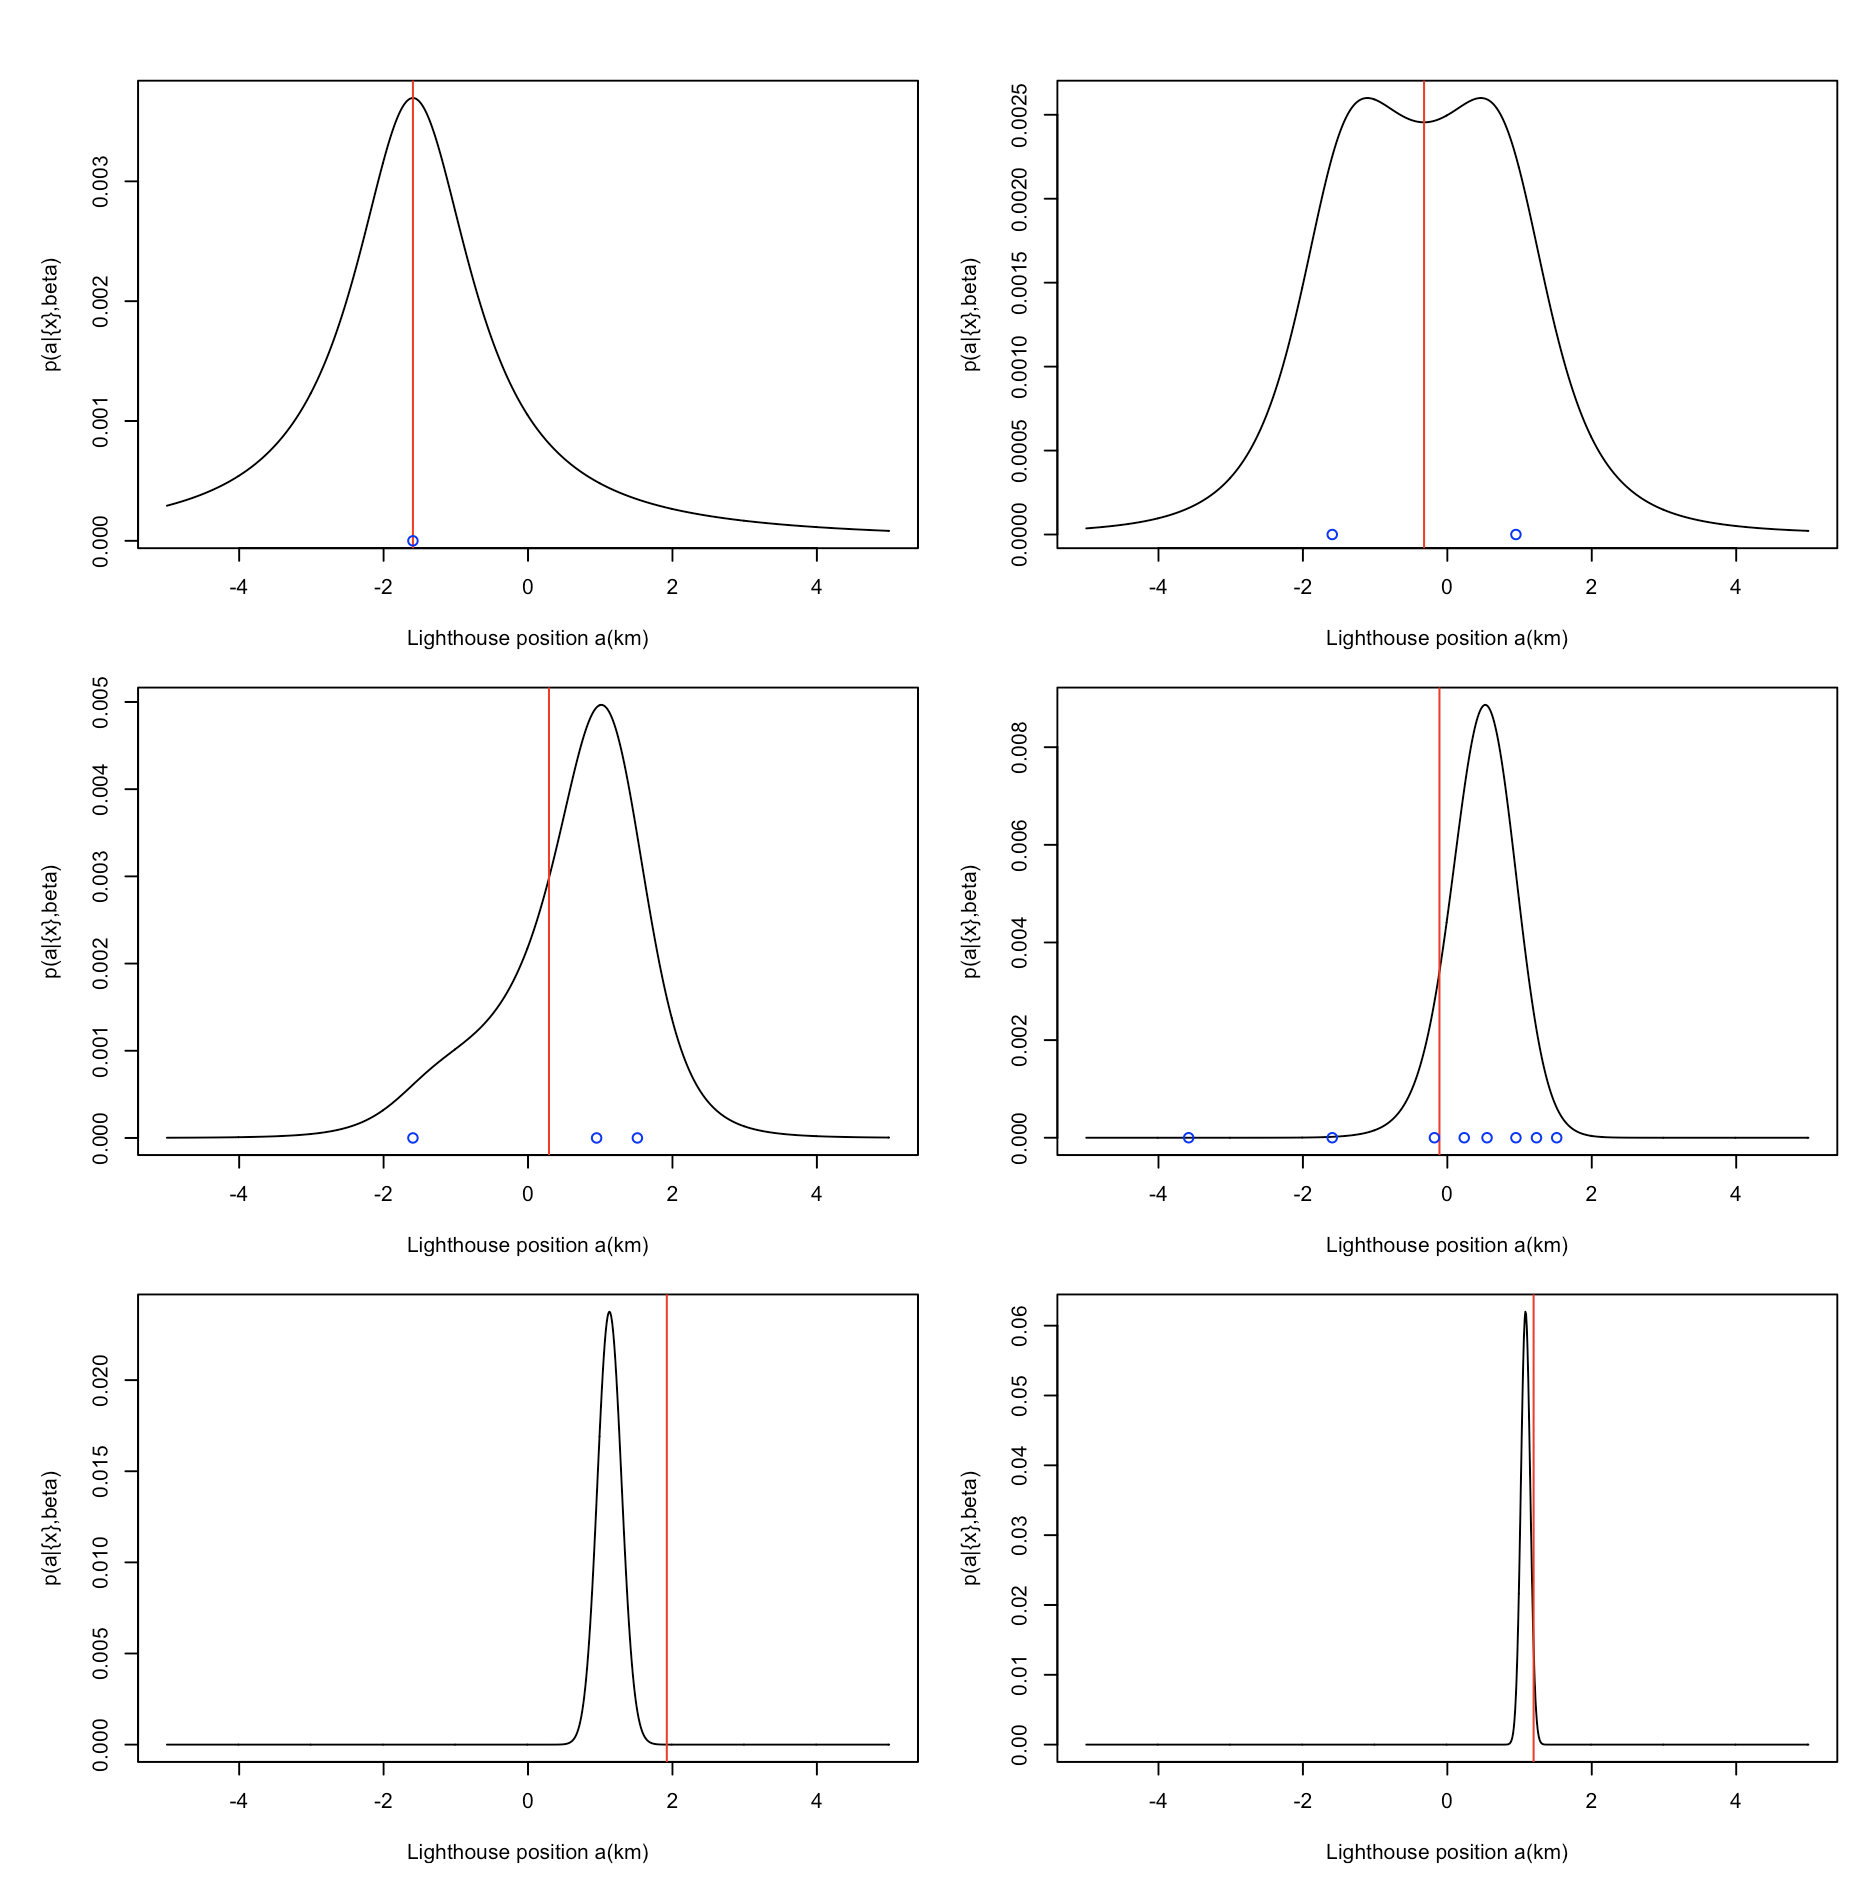
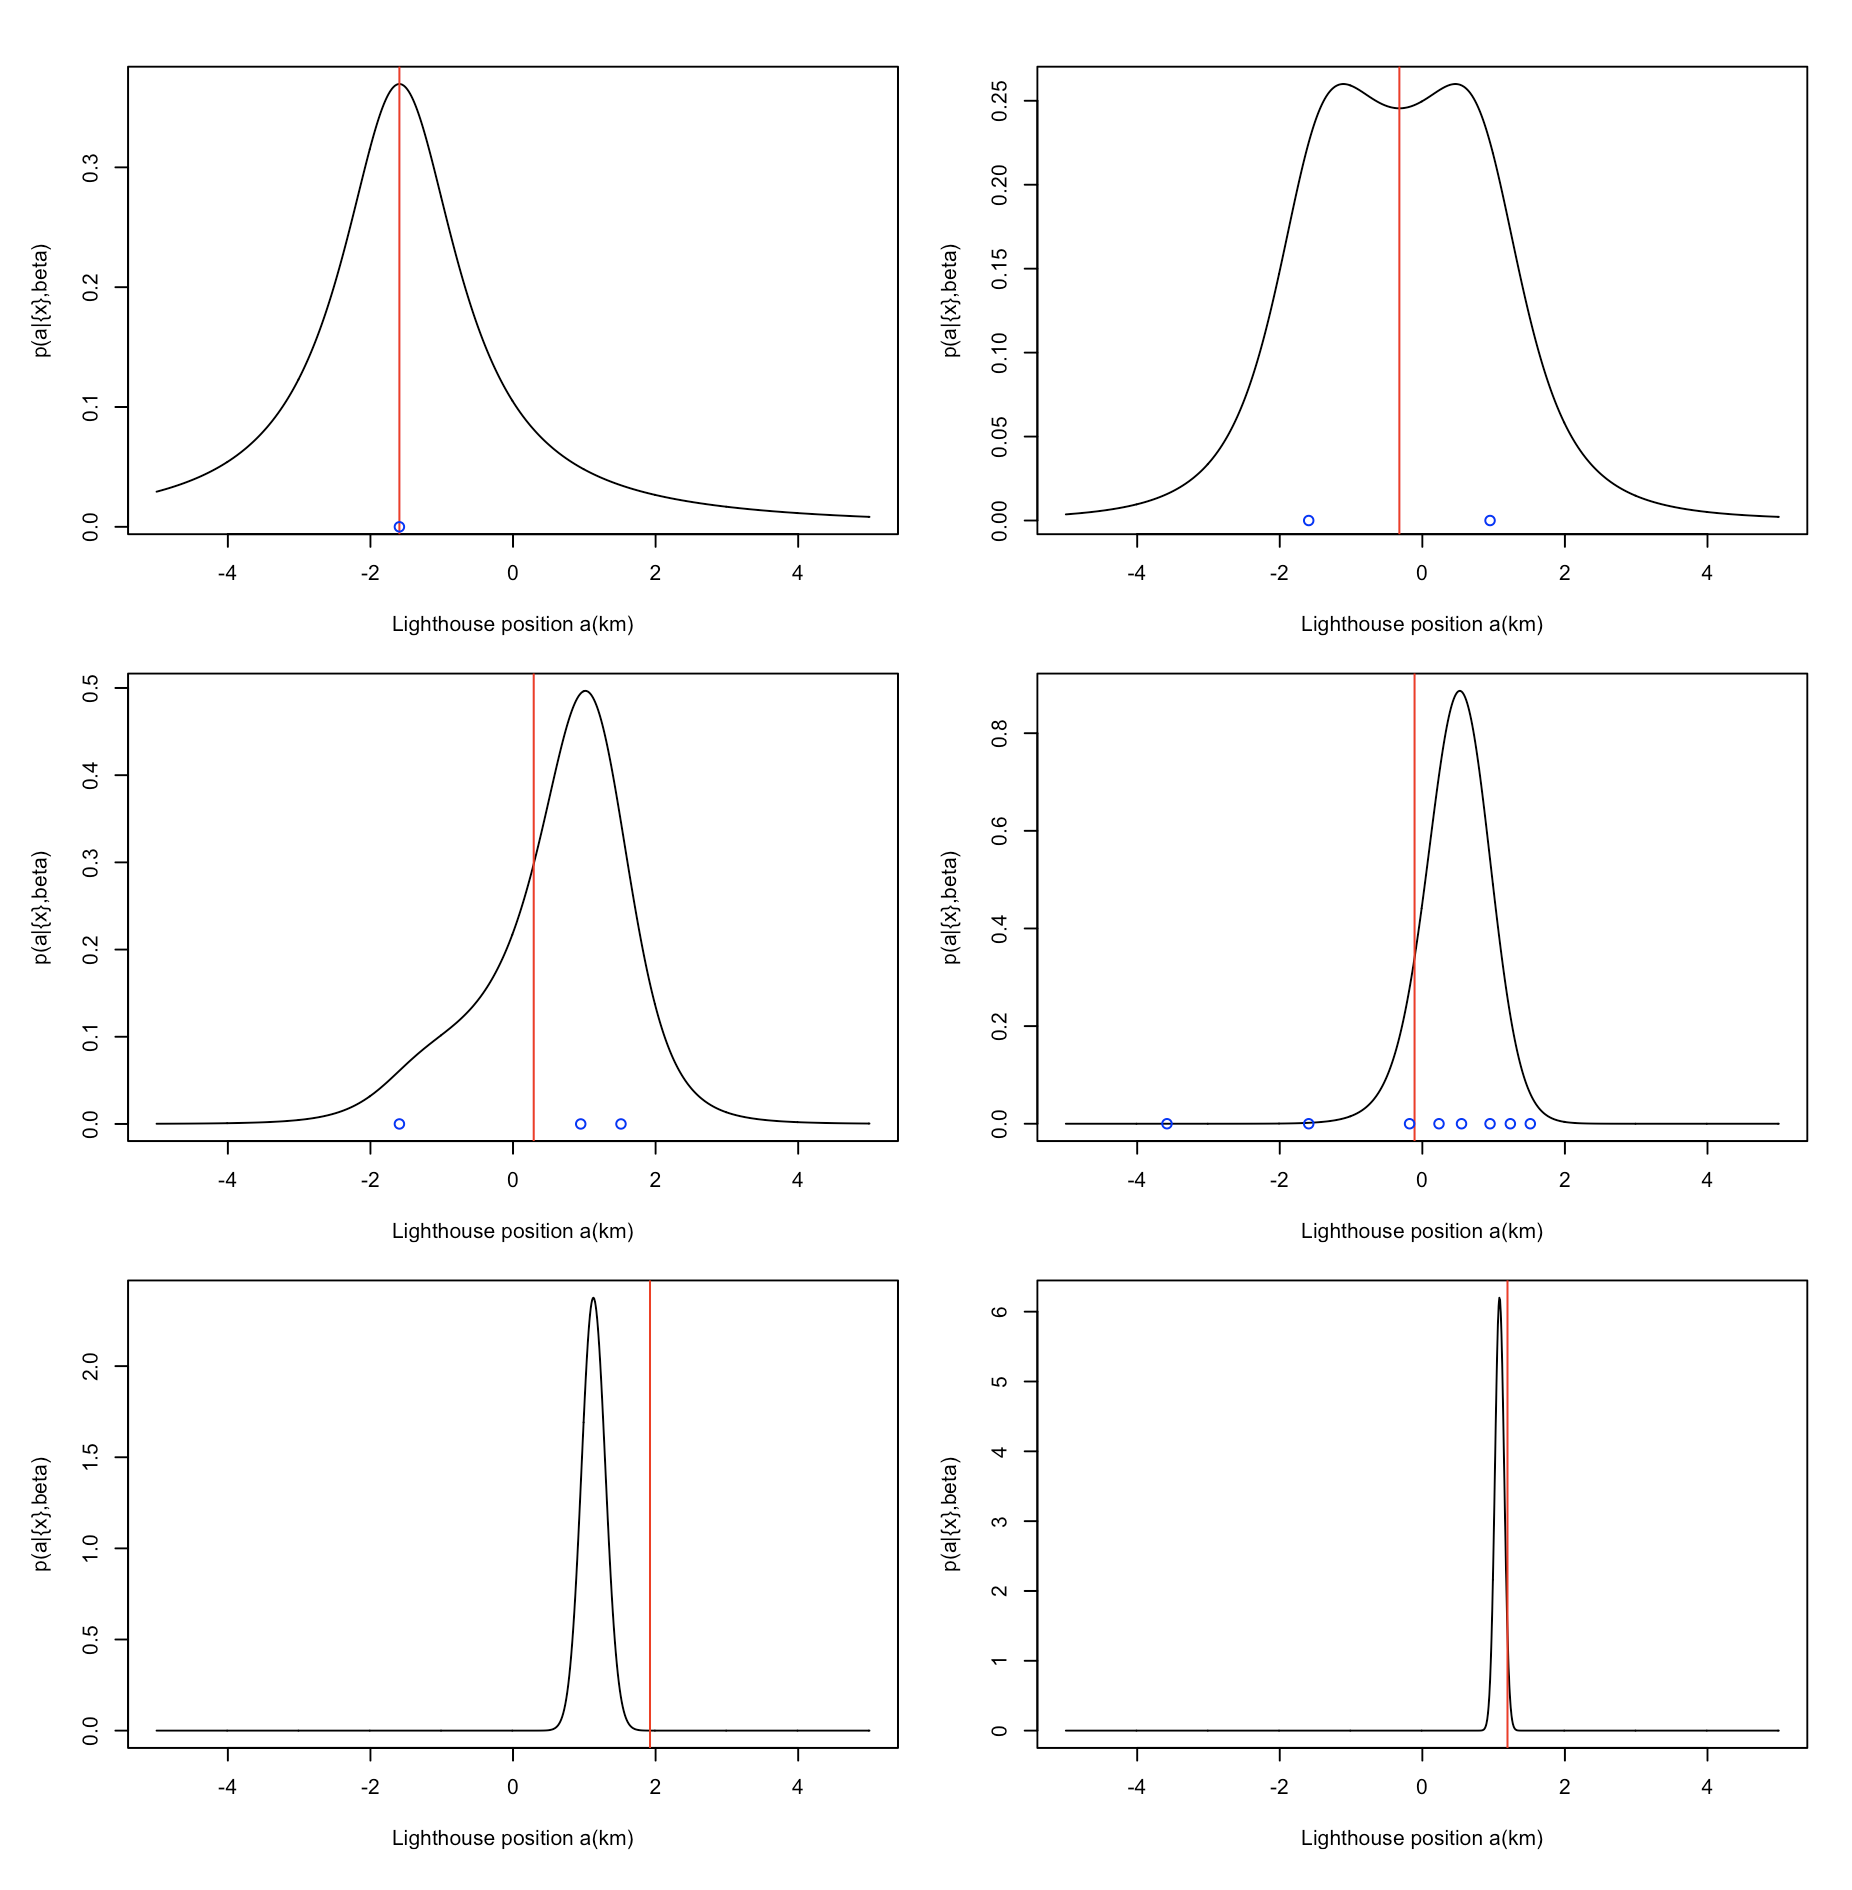
Site updated: 2017-02-21 11:16:20

diff --git a/2017/02/13/The-Lighthouse-Problem/index.html b/2017/02/13/The-Lighthouse-Problem/index.html
@@ -96,7 +96,7 @@
 <meta property="og:image" content="http://yoursite.com/2017/02/13/The-Lighthouse-Problem/illustration_lighthouse.png">
 <meta property="og:image" content="http://yoursite.com/2017/02/13/The-Lighthouse-Problem/cauchy_distribution.png">
 <meta property="og:image" content="http://yoursite.com/2017/02/13/The-Lighthouse-Problem/posterior.png">
-<meta property="og:updated_time" content="2017-02-14T19:31:52.000Z">
+<meta property="og:updated_time" content="2017-02-21T17:15:56.000Z">
 <meta name="twitter:card" content="summary">
 <meta name="twitter:title" content="The Lighthouse Problem | and why sample mean is not a good estimator">
 <meta name="twitter:description" content="This example comes from ‘Data analysis: a Bayesian tutorial’[1 P29]. It was originally studied by Gull (1988) who found this problem on a problems sheet for first-year undergraduates at Cambridge:‘A l">
@@ -402,7 +402,7 @@
 <p>The best estimate of the position $\alpha_0$ is given by the maximum of the posterior pdf. Differentiating this log-posterior pdf once, with respect to $\alpha$, we obtain the condition:</p>
 <p>$$\frac{dL}{d\alpha} \bigg|_{\alpha_0} = 2\sum_{k=1}^N \frac{x_k-\alpha_0}{\beta^2+(x_k-\alpha)^2} = 0$$</p>
 <p>Unfortunately, it is difficult to rearrange this equation so that αo is expressed in terms of ${ x_k }$ and $\beta$. Although an analytical solution may confound us, there is nothing to stop us tackling the problem numerically. The most straightforward method is to use brute force and ignorance: simply evaluate $L$, the log posterior pdf, for a whole series of different possible values of $\alpha$ the number giving rise to the largest $L$ will be the best estimate. If we plot the exponential of $L$, $exp(L)$, on the vertical axis, as a function of $\alpha$, on the horizontal axis, then we obtain the posterior pdf for the position of the lighthouse. Not only does this give us a complete visual representation of our inference, it has the advantage that we don’t need to worry whether the posterior pdf is asymmetric or multimodal.</p>
-<figure class="highlight r"><table><tr><td class="gutter"><pre><div class="line">1</div><div class="line">2</div><div class="line">3</div><div class="line">4</div><div class="line">5</div><div class="line">6</div><div class="line">7</div><div class="line">8</div><div class="line">9</div><div class="line">10</div><div class="line">11</div><div class="line">12</div><div class="line">13</div><div class="line">14</div><div class="line">15</div><div class="line">16</div><div class="line">17</div><div class="line">18</div><div class="line">19</div><div class="line">20</div><div class="line">21</div><div class="line">22</div><div class="line">23</div><div class="line">24</div><div class="line">25</div><div class="line">26</div><div class="line">27</div></pre></td><td class="code"><pre><div class="line">set.seed(<span class="number">19</span>)</div><div class="line">n = <span class="number">1000</span>; beta = <span class="number">1</span>; alpha = <span class="number">1</span>;</div><div class="line">theta = runif(n, -pi/<span class="number">2</span>, pi/<span class="number">2</span>)</div><div class="line">x = beta*tan(theta) + alpha</div><div class="line"></div><div class="line">drawPosterior = <span class="keyword">function</span>(number, showPoints)&#123;</div><div class="line">    x = x[<span class="number">1</span>:number]</div><div class="line">    seqA = seq(-<span class="number">5</span>, <span class="number">5</span>, <span class="number">0.01</span>)</div><div class="line">    la = c()</div><div class="line">    <span class="keyword">for</span>(a <span class="keyword">in</span> seqA)&#123;</div><div class="line">        la = c(la, -sum(log(  beta^<span class="number">2</span>+(x-a)^<span class="number">2</span>)  ))</div><div class="line">    &#125;</div><div class="line">    la = exp(la + abs(mean(la)))  <span class="comment"># normalize</span></div><div class="line">    la = la/sum(la)</div><div class="line">    plot(x=seqA, y=la, type=<span class="string">"l"</span>, xlab=<span class="string">"Lighthouse position a(km)"</span>, ylab=<span class="string">"p(a|&#123;x&#125;,beta)"</span>)</div><div class="line">    abline(v=mean(x), col=<span class="string">"red"</span>)</div><div class="line">    <span class="keyword">if</span>(showPoints)&#123; points(x, rep(<span class="number">0</span>, length(x)), col=<span class="string">"blue"</span>)&#125;</div><div class="line">&#125;</div><div class="line"></div><div class="line">par(mar=c(<span class="number">4</span>, <span class="number">4</span>, <span class="number">1.5</span>, <span class="number">1.5</span>), oma = c(<span class="number">2</span>, <span class="number">2</span>, <span class="number">2</span>, <span class="number">2</span>))</div><div class="line">layout(matrix(<span class="number">1</span>:<span class="number">6</span>, ncol=<span class="number">2</span>, byrow=<span class="literal">TRUE</span>))</div><div class="line">drawPosterior(<span class="number">1</span>, <span class="literal">TRUE</span>)</div><div class="line">drawPosterior(<span class="number">2</span>, <span class="literal">TRUE</span>)</div><div class="line">drawPosterior(<span class="number">3</span>, <span class="literal">TRUE</span>)</div><div class="line">drawPosterior(<span class="number">8</span>, <span class="literal">TRUE</span>)</div><div class="line">drawPosterior(<span class="number">64</span>, <span class="literal">FALSE</span>)</div><div class="line">drawPosterior(<span class="number">512</span>, <span class="literal">FALSE</span>)</div></pre></td></tr></table></figure>
+<figure class="highlight r"><table><tr><td class="gutter"><pre><div class="line">1</div><div class="line">2</div><div class="line">3</div><div class="line">4</div><div class="line">5</div><div class="line">6</div><div class="line">7</div><div class="line">8</div><div class="line">9</div><div class="line">10</div><div class="line">11</div><div class="line">12</div><div class="line">13</div><div class="line">14</div><div class="line">15</div><div class="line">16</div><div class="line">17</div><div class="line">18</div><div class="line">19</div><div class="line">20</div><div class="line">21</div><div class="line">22</div><div class="line">23</div><div class="line">24</div><div class="line">25</div><div class="line">26</div><div class="line">27</div></pre></td><td class="code"><pre><div class="line">set.seed(<span class="number">19</span>)</div><div class="line">n = <span class="number">1000</span>; beta = <span class="number">1</span>; alpha = <span class="number">1</span>;</div><div class="line">theta = runif(n, -pi/<span class="number">2</span>, pi/<span class="number">2</span>)</div><div class="line">x = beta*tan(theta) + alpha</div><div class="line"></div><div class="line">drawPosterior = <span class="keyword">function</span>(number, showPoints)&#123;</div><div class="line">    x = x[<span class="number">1</span>:number]</div><div class="line">    seqA = seq(-<span class="number">5</span>, <span class="number">5</span>, <span class="number">0.01</span>)</div><div class="line">    la = c()</div><div class="line">    <span class="keyword">for</span>(a <span class="keyword">in</span> seqA)&#123;</div><div class="line">        la = c(la, -sum(log(  beta^<span class="number">2</span>+(x-a)^<span class="number">2</span>)  ))</div><div class="line">    &#125;</div><div class="line">    la = exp(la + abs(mean(la)))  <span class="comment"># normalize</span></div><div class="line">    la = la/(sum(la)*<span class="number">0.01</span>)  <span class="comment"># times by the step length</span></div><div class="line">    plot(x=seqA, y=la, type=<span class="string">"l"</span>, xlab=<span class="string">"Lighthouse position a(km)"</span>, ylab=<span class="string">"p(a|&#123;x&#125;,beta)"</span>)</div><div class="line">    abline(v=mean(x), col=<span class="string">"red"</span>)</div><div class="line">    <span class="keyword">if</span>(showPoints)&#123; points(x, rep(<span class="number">0</span>, length(x)), col=<span class="string">"blue"</span>)&#125;</div><div class="line">&#125;</div><div class="line"></div><div class="line">par(mar=c(<span class="number">4</span>, <span class="number">4</span>, <span class="number">1.5</span>, <span class="number">1.5</span>), oma = c(<span class="number">2</span>, <span class="number">2</span>, <span class="number">2</span>, <span class="number">2</span>))</div><div class="line">layout(matrix(<span class="number">1</span>:<span class="number">6</span>, ncol=<span class="number">2</span>, byrow=<span class="literal">TRUE</span>))</div><div class="line">drawPosterior(<span class="number">1</span>, <span class="literal">TRUE</span>)</div><div class="line">drawPosterior(<span class="number">2</span>, <span class="literal">TRUE</span>)</div><div class="line">drawPosterior(<span class="number">3</span>, <span class="literal">TRUE</span>)</div><div class="line">drawPosterior(<span class="number">8</span>, <span class="literal">TRUE</span>)</div><div class="line">drawPosterior(<span class="number">64</span>, <span class="literal">FALSE</span>)</div><div class="line">drawPosterior(<span class="number">512</span>, <span class="literal">FALSE</span>)</div></pre></td></tr></table></figure>
 <p><img src="/2017/02/13/The-Lighthouse-Problem/posterior.png"></p>
 <p>when there are only a few data, it can easily be multimodal if their locations are sufficiently discordant. By about a dozen measurements, however, the posterior becomes a well behaved Gaussian-like pdf. As the experimental evidence mounts, the posterior pdf becomes narrower, and narrower, with the peak converging towards a value of $\alpha$ = 1; this is as expected, and quite reassuring, as the data were generated with the lighthouse 1 km along the shore.    </p>
 <p>Notice here although the peak or the mode converge to 1, the red line, which is the average value of the data is not 1. This is because for a Cauchy distribution, its very wide wings make its variance infinite and mean undefined. But this did not prevent us from being able to estimate the position of the lighthouse. To infer the value of $\alpha$, given $\beta$ and the detection of flashes at ${x_k}$,  we needed to consider the posterior pdf. As can be seen from the plot above, the latter continues to get sharper as the number of data increases. The point is that the central limit theorem is a statement about the pdf for the sample mean. If the maximum of the posterior pdf happens to be equal to the average value of the data, then this might be relevant; otherwise, it’s of little concern. The moral of this tale is that, despite its everyday respectability, the sample mean is not always a useful number — let the posterior pdf decide what is best.</p>

diff --git a/css/main.css b/css/main.css
@@ -1706,7 +1706,7 @@ pre .javascript .function {
   width: 4px;
   height: 4px;
   border-radius: 50%;
-  background: #18ff8a;
+  background: #7d57c8;
 }
 .links-of-blogroll {
   font-size: 13px;
